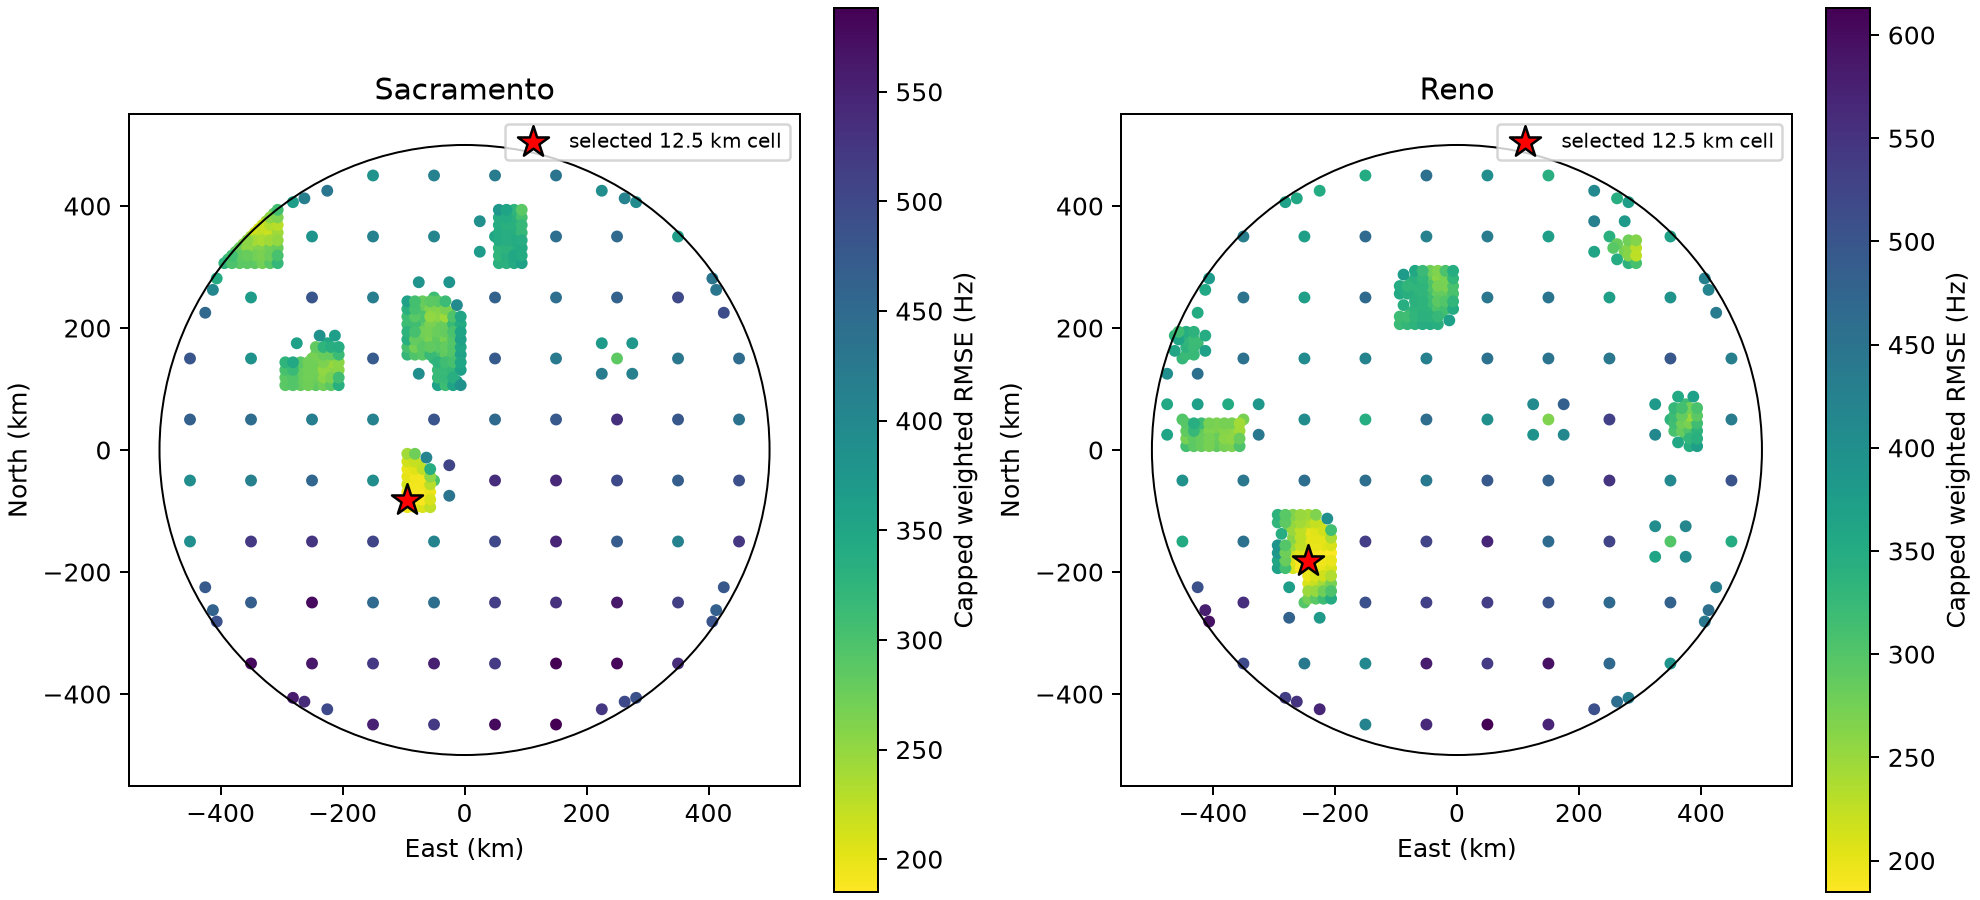
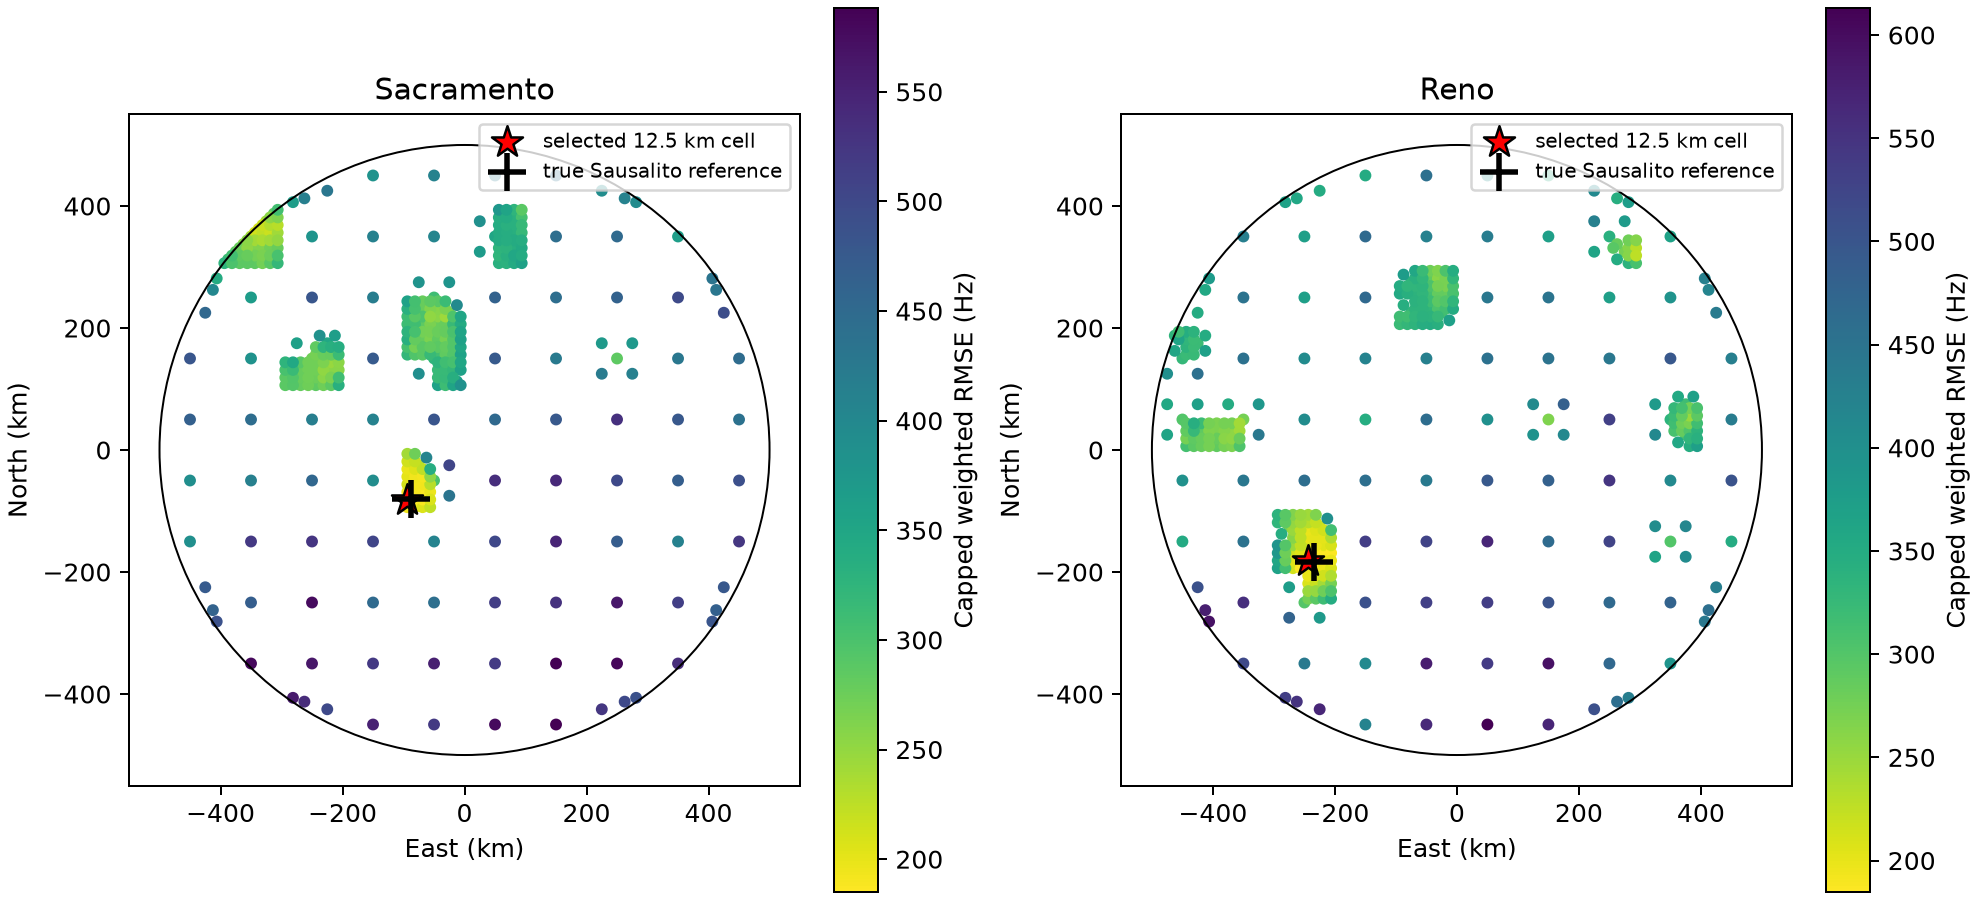
Overlay true evaluation position on best-first search maps

diff --git a/reports/2026_09_23_best_first_tracking_search/render.py b/reports/2026_09_23_best_first_tracking_search/render.py
@@ -3,6 +3,7 @@
 
 import hashlib
 import json
+import math
 from pathlib import Path
 
 import matplotlib
@@ -11,6 +12,19 @@ matplotlib.use("Agg")
 import matplotlib.pyplot as plt
 
 HERE = Path(__file__).resolve().parent
+CITIES = {"sacramento": (38.5816, -121.4944), "reno": (39.5296, -119.8138)}
+
+
+def reference_offset(latitude, longitude, center):
+    """Invert the search's spherical azimuthal-equidistant coordinates."""
+    lat, lon, lat0, lon0 = map(math.radians, (latitude, longitude, *center))
+    dl = lon - lon0
+    east = math.cos(lat) * math.sin(dl)
+    north = math.cos(lat0) * math.sin(lat) - math.sin(lat0) * math.cos(lat) * math.cos(dl)
+    dot = math.sin(lat0) * math.sin(lat) + math.cos(lat0) * math.cos(lat) * math.cos(dl)
+    norm = math.hypot(east, north)
+    scale = 6371.0088 * math.atan2(norm, dot) / norm if norm else 0.0
+    return east * scale, north * scale
 
 
 def read(path):
@@ -71,6 +85,8 @@ def main():
     plt.close(fig)
 
     fig, axes = plt.subplots(1, 2, figsize=(11, 5), constrained_layout=True)
+    zoom_fig, zoom_axes = plt.subplots(1, 2, figsize=(11, 5), constrained_layout=True)
+    reference = read(HERE / "inputs" / "evaluation-reference.json")
     for ax, city in zip(axes, ("sacramento", "reno"), strict=True):
         row = next(
             item
@@ -95,6 +111,31 @@ def main():
             edgecolor="black",
             label="selected 12.5 km cell",
         )
+        truth_e, truth_n = reference_offset(
+            reference["latitude_deg"], reference["longitude_deg"], CITIES[city]
+        )
+        zoom_ax = zoom_axes[0 if city == "sacramento" else 1]
+        zoom_plot = zoom_ax.scatter(
+            [event["east_km"] for event in events],
+            [event["north_km"] for event in events],
+            c=[event["weighted_mse_hz2"] ** 0.5 for event in events],
+            s=30, cmap="viridis_r", norm=plot.norm,
+        )
+        zoom_ax.scatter(selected["east_km"], selected["north_km"], marker="*",
+                        s=170, color="red", edgecolor="black", zorder=5,
+                        label="selected 12.5 km cell")
+        for target in (ax, zoom_ax):
+            target.scatter(truth_e, truth_n, marker="+", s=220, color="black",
+                           linewidths=2.2, zorder=6, label="true Sausalito reference")
+            target.plot([selected["east_km"], truth_e], [selected["north_km"], truth_n],
+                        color="black", linestyle="--", linewidth=1, zorder=4)
+        zoom_ax.set(xlim=(truth_e - 30, truth_e + 30), ylim=(truth_n - 30, truth_n + 30),
+                    title=f"{city.title()} · error {row['postselection_distance_km']:.2f} km",
+                    xlabel="East of prior center (km)", ylabel="North of prior center (km)",
+                    aspect="equal")
+        zoom_ax.grid(alpha=0.2)
+        zoom_ax.legend(fontsize=8)
+        zoom_fig.colorbar(zoom_plot, ax=zoom_ax, label="Capped weighted RMSE (Hz)")
         circle = plt.Circle((0, 0), 500, fill=False, color="black", linewidth=0.8)
         ax.add_patch(circle)
         ax.set(title=city.title(), xlabel="East (km)", ylabel="North (km)", aspect="equal")
@@ -102,6 +143,9 @@ def main():
         fig.colorbar(plot, ax=ax, label="Capped weighted RMSE (Hz)")
     fig.savefig(HERE / "visited-points.png", dpi=180)
     plt.close(fig)
+    zoom_fig.suptitle("True reference overlaid after search; not used for inference")
+    zoom_fig.savefig(HERE / "visited-points-closeup.png", dpi=180)
+    plt.close(zoom_fig)
 
     files = {}
     for path in sorted(HERE.rglob("*")):

diff --git a/reports/2026_09_23_best_first_tracking_search/README.md b/reports/2026_09_23_best_first_tracking_search/README.md
@@ -89,7 +89,11 @@ Requalify and render the frozen report without corpus access:
 ```
 
 Figures: [best cost versus evaluations](best-cost-vs-evaluations.png),
-[visited points](visited-points.png), and [runtime comparison](runtime.png).
+[visited points](visited-points.png), [position close-ups](visited-points-closeup.png),
+and [runtime comparison](runtime.png). The maps overlay the true Sausalito
+reference as a black plus after inference; red stars mark the selected grid
+centers. Dashed connectors show their separation. The close-ups span 60 km
+and report great-circle position error. The reference is never a search input.
 
 `baseline-retroactive-qualification.json` binds the completed exact-centre
 400-point baseline to the current deterministic input protocol. Its 34-track
